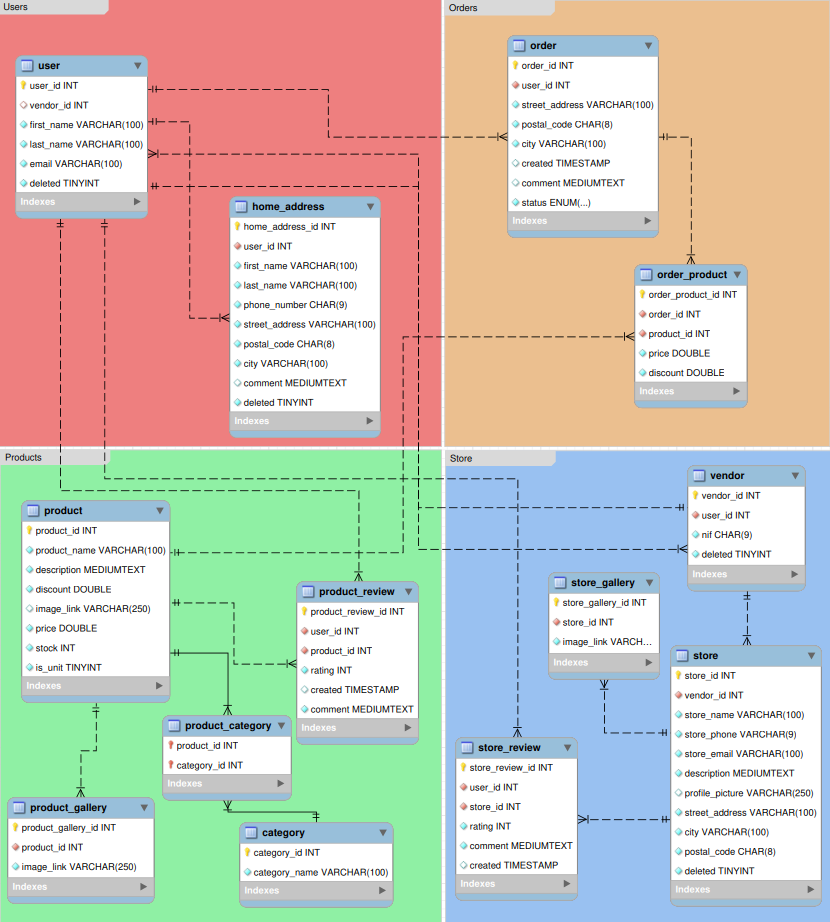
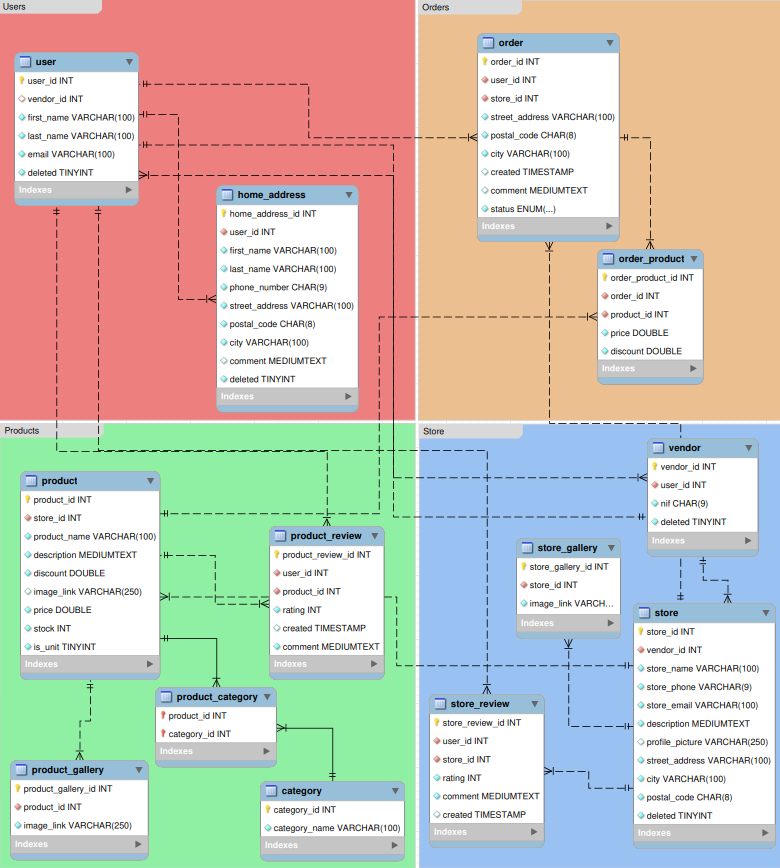
finish?

diff --git a/Chapters/4. Capitulo.tex b/Chapters/4. Capitulo.tex
@@ -31,9 +31,52 @@ Alguns exemplos de consultas que poderão ser feitas na aplicação:
   SELECT email FROM user
   WHERE deleted = 0 AND vendor_id IS NOT NULL;
       \end{lstlisting}
+
+  \item \textbf{Consultar produtos e quais os seus vendedores}\\ 
+    Mostrar o \texttt{product\_name} de todos os produtos e o seu \texttt{store\_name} correspondente.
+    \vspace{10pt}
+    \begin{lstlisting}
+  -- Listar todos os produtos e qual a loja que os vende
+  SELECT product.product_name, store.store_name
+  FROM product
+  INNER JOIN store ON store.store_id = product.store_id;
+      \end{lstlisting}
+
+  \item \textbf{Listar encomendas pertencentes a um utilizador}\\ 
+    Listar todas as encomendas que um utilizador fez, mostrando o \texttt{order\_id}, o \texttt{store\_id}, o\texttt{store\_name}, a data em que foi feita \texttt{created} e o \texttt{status} correspondente. Ordenar essas encomendas por ordem decrescente da mais recente á mais antiga.
+    \vspace{10pt}
+    \begin{lstlisting}
+  -- Listar todas as encomendas do utilizador com id igual a 1
+  SELECT order.order_id, store.store_id, store.store_name, order.created, order.status
+  FROM order
+  INNER JOIN store ON order.order_id = store.store_id
+  WHERE user_id = 1
+  ORDER BY created DESC;
+      \end{lstlisting}
+
+  \item \textbf{Listar encomendas pertencentes a um vendedor}\\ 
+    Listar o número da encomenda \texttt{order\_id}, o nome do comprador \texttt{user.first\_name} e \texttt{user.last\_name}, e a data em que a encomenda foi feita \texttt{created} para todas as encomendas que um vendedor ainda tem para enviar, ou seja, aquelas que têm o \texttt{status} definido como "Em processamento", exibindo-os em ordem do mais antigo ao mais recente.
+      \vspace{10pt}
+      \begin{lstlisting}
+  -- Listar todas as encomendas do vendedor com id igual a 1
+  SELECT order.order_id, user.first_name, user.last_name, order.created
+  FROM order
+  INNER JOIN user ON order.user_id = user.user_id
+  INNER JOIN store ON order.store_id = store.store_id
+  WHERE store.vendor_id = 1 AND order.status = 'Em processamento'
+  ORDER BY order.created ASC;
+        \end{lstlisting}
+
 \end{itemize}
 
 
-\newpage
 
-TODO: fazer mais esta pagina com consultas
+
+
+
+% Consulta de orders  que o vendedor fez e a quem 
+% EXEMPLO de RIGHT JOIN;
+% SELECTuser.user_id, user.first_name, user.last_name, orders.order_id
+% FROM user
+% RIGHT JOIN orders USING (user_id)
+% WHERES  vendor_id =1;

diff --git a/Chapters/5. Conclusao.tex b/Chapters/5. Conclusao.tex
@@ -1,12 +1,6 @@
 \section{Conclusão} \label{section: Conclusao}
-
-Realizar este trabalho permitiu o iniciar do projeto final de curso, 
-forçando o grupo a uma reflexão e debate de ideias.
+Realizar este trabalho permitiu o início do projeto final de curso, forçando o grupo a uma reflexão e debate de ideias.
 \par \vspace{6pt}
-Traçados os objetivos do projeto final e definidas as principais funcionalidades 
-da aplicação, inicia-se a modelação da base de dados a utilizar. Esta modelação 
-levou o grupo a debater sobre as funcionalidades escolhidas, 
-a sua dificuldade e coincidência de objetivos definidos com ambição do projeto.
+Definidos os objetivos do projeto final e estabelecidas as principais funcionalidades da aplicação, iniciou-se a modelação da base de dados a utilizar. Esta modelação levou o grupo a debater sobre as funcionalidades escolhidas, a sua dificuldade e a consonância dos objetivos definidos com a ambição do projeto.
 \par \vspace{6pt}
-Com o desenvolvimento deste modelo da base de dados do projeto final, foi possível 
-ao grupo aprender, praticar e compreender o que está na retaguarda de uma loja online.
+Com o desenvolvimento deste modelo da base de dados do projeto final, foi possível ao grupo aprender, praticar e compreender o que está por detrás de uma plataforma para lojas online.

diff --git a/Chapters/3. Capitulo.tex b/Chapters/3. Capitulo.tex
@@ -67,6 +67,7 @@ Criámos as tabelas tendo em conta as funcionalidades da aplicação:
         \textbf{\color{color_scheme}Nome} & \textbf{\color{color_scheme}Tipo} & \textbf{\color{color_scheme}Atributos} & \textbf{\color{color_scheme}Padrão / Expressão}\\
         \midrule
         \texttt{product\_id} & \texttt{INT} & \texttt{PK - NN - AI} &\\
+        \texttt{store\_id} & \texttt{INT} & \texttt{NN - FK} & \\
         \texttt{product\_name} & \texttt{VARCHAR(100)}  & \texttt{NN}  & \\
         \texttt{description} & \texttt{MEDIUMTEXT}  & \texttt{NN}  & \\
         \texttt{discount} & \texttt{DOUBLE}  & \texttt{NN - UQ}  & \texttt{0.0}\\
@@ -249,6 +250,7 @@ Criámos as tabelas tendo em conta as funcionalidades da aplicação:
         \midrule
         \texttt{order\_id} & \texttt{INT} & \texttt{PK - NN - AI} &\\
         \texttt{user\_id} & \texttt{INT}  & \texttt{NN - FK}  &  \\
+        \texttt{store\_id} & \texttt{INT}  & \texttt{NN - FK}  &  \\
         \texttt{street\_address} & \texttt{VARCHAR(100)}  & \texttt{NN}  & \\
         \texttt{postal\_code} & \texttt{CHAR(8)}  & \texttt{NN}  & \\
         \texttt{city} & \texttt{VARCHAR(100)}  & \texttt{NN}  & \\
